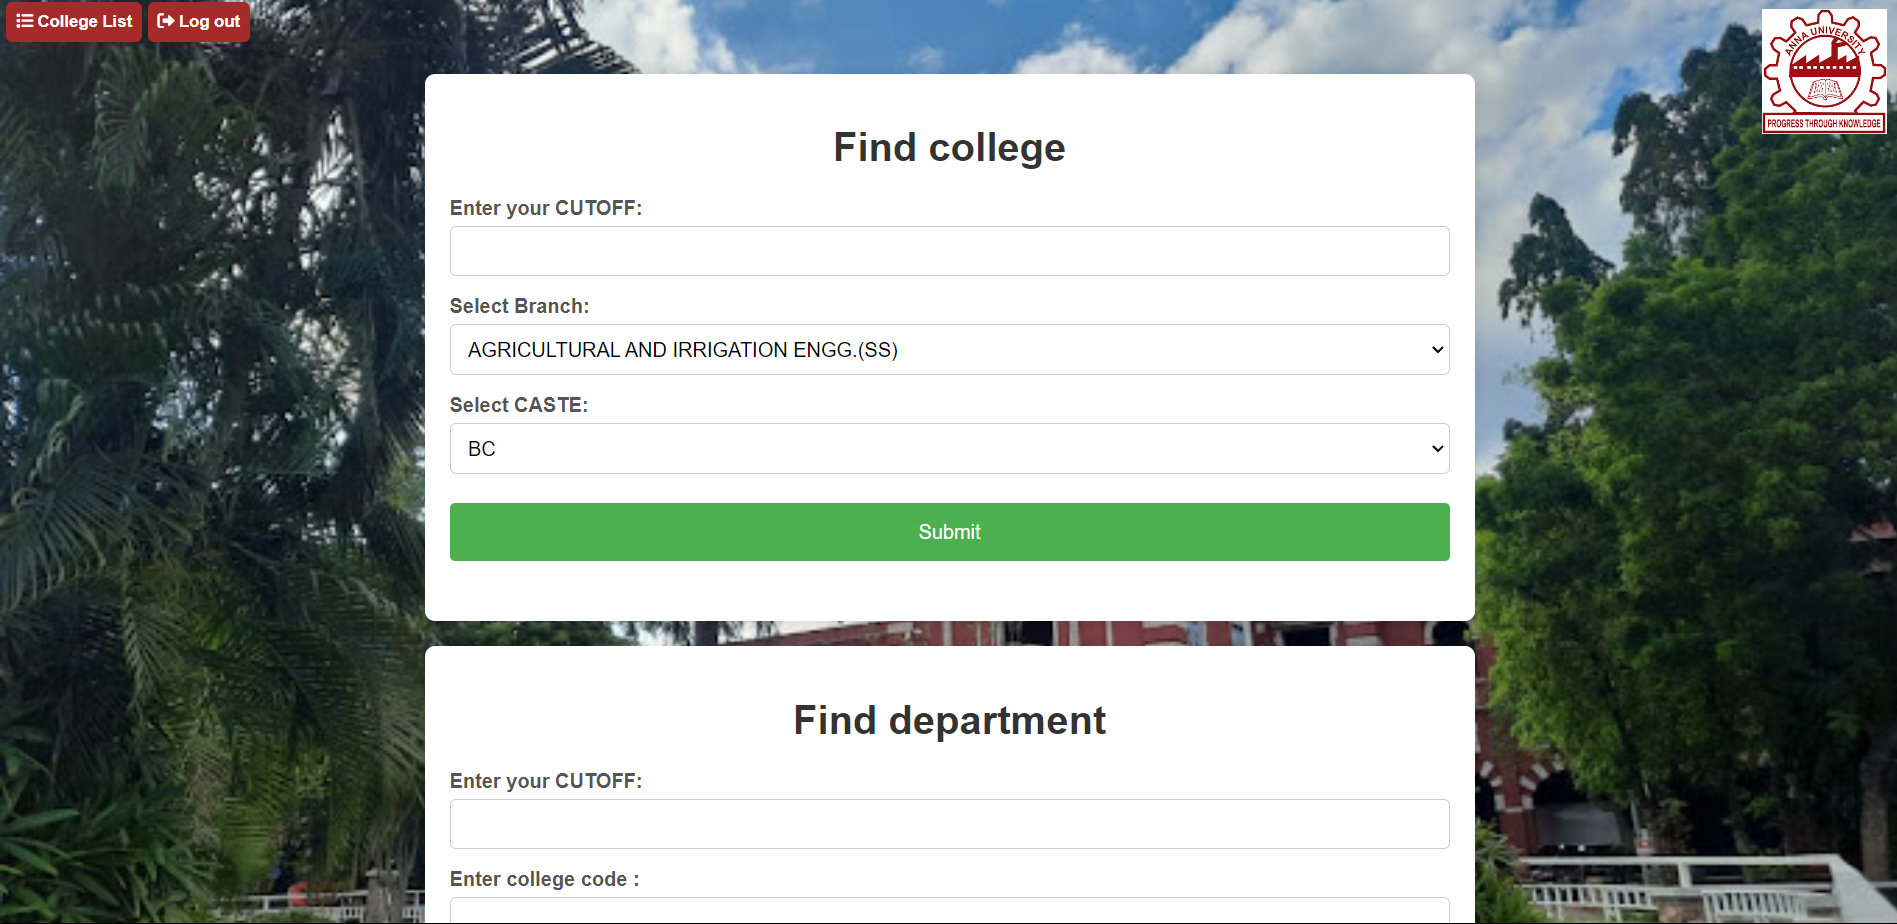
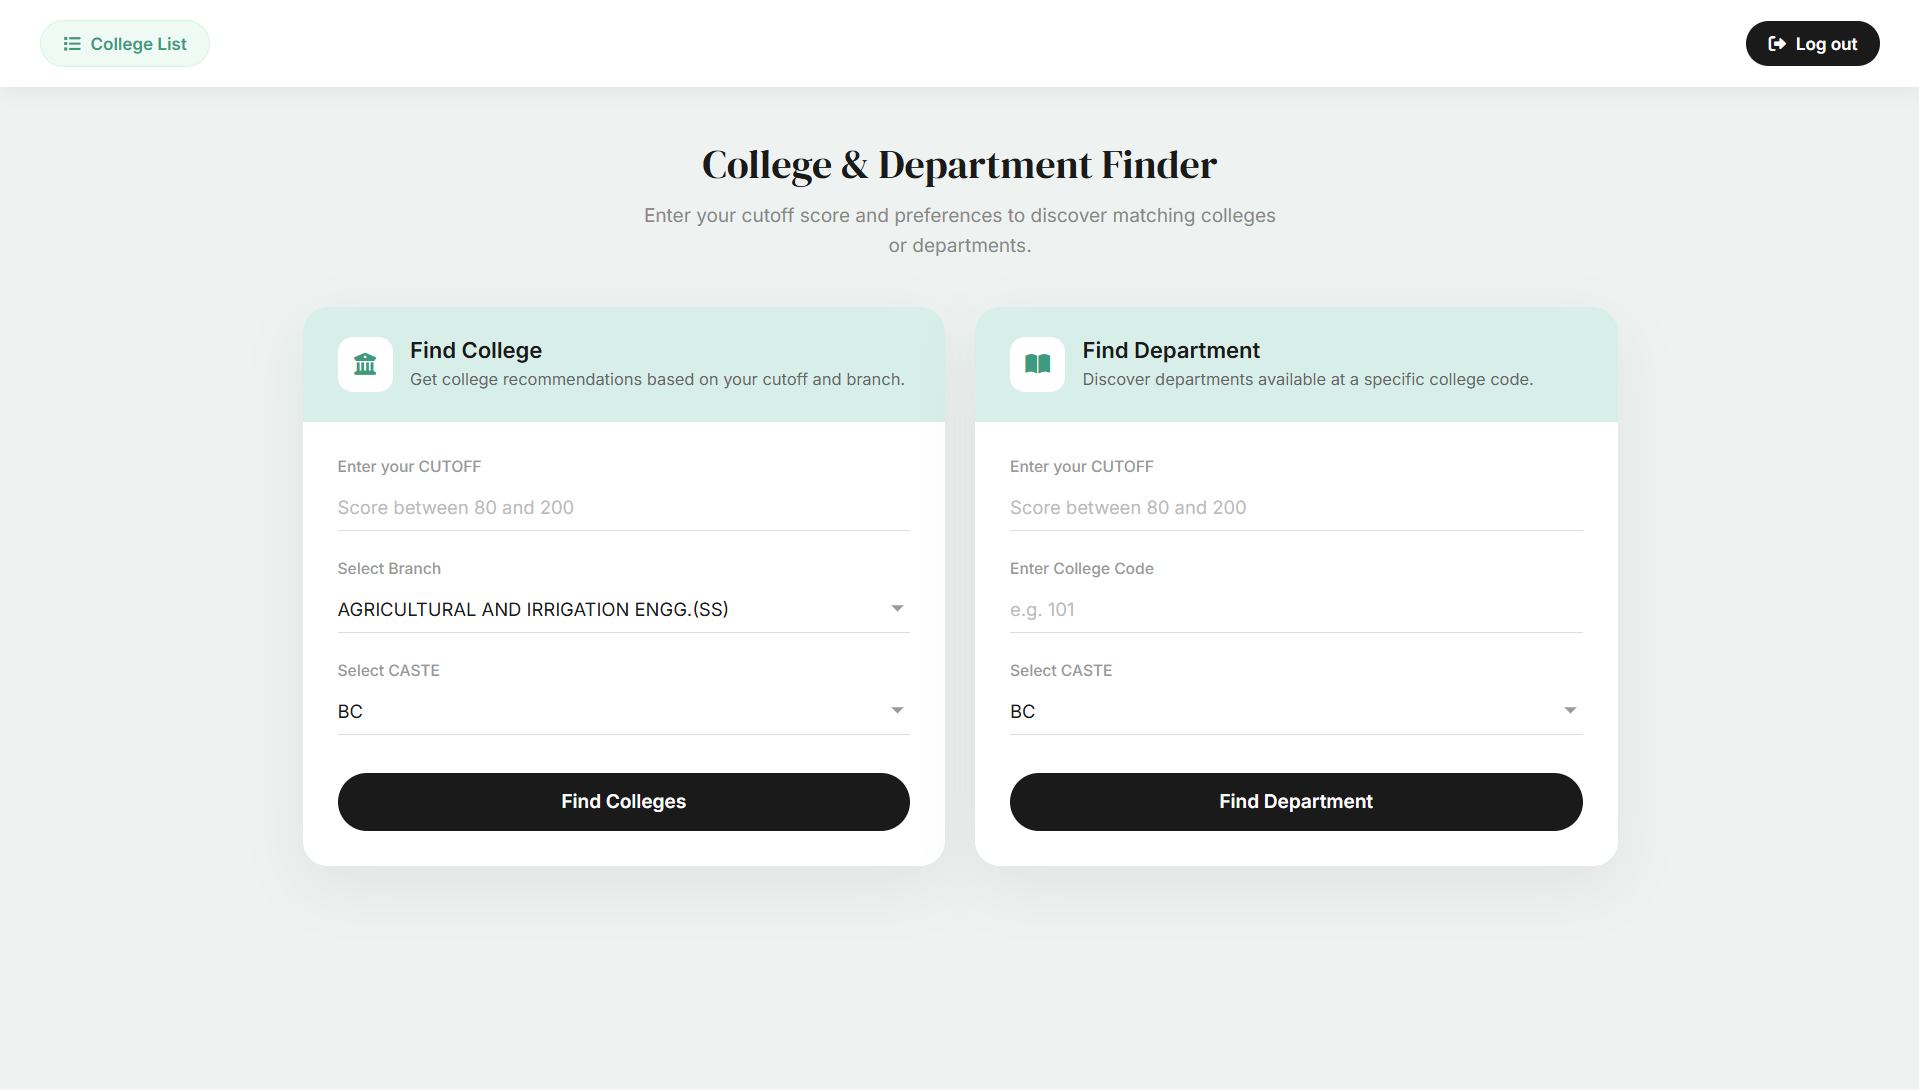
College-recommendation-system

diff --git a/README.md b/README.md
@@ -17,6 +17,11 @@ The integration of Python for the backend ensures robust and efficient data hand
 <p align="justify"> 
 The college list feature is developed for displaying cutoff data under various categories, such as branch code and caste, offers significant advantages for students navigating the college admission process. This tool provides a comprehensive and organized view of cutoff marks for different colleges and branches, making it easier for students to compare their options based on their academic performance and preferences. By categorizing the data according to branch codes and caste, the system ensures that users can quickly find the most relevant information tailored to their specific needs, enhancing the efficiency and accuracy of their college selection process. The backend development using Python ensures that the data is handled efficiently, allowing for quick retrieval and display of information. This real-time feature is crucial for students who need up-to-date information to make informed decisions. The frontend, created using HTML, offers a clean and user-friendly interface that simplifies interaction. The intuitive layout, with clearly labeled fields and buttons, guides users through the process of finding suitable colleges based on their cutoff marks, branch preferences, and caste category. </p>
 
-![Loginpage](./imgs/clglist.png)
+![Loginpage](./imgs/CollegeList.png)
+
+<p align="justify">
+The recommendation results are generated based on the student's cutoff marks and caste category, ensuring personalized and accurate admission guidance. Students can search by selecting a specific college to view the departments for which they are likely eligible based on their cutoff score. Alternatively, they can choose a preferred department to explore colleges where they have admission opportunities. This flexible approach helps students evaluate multiple admission pathways, compare available options, and make informed decisions about their higher education journey. By providing data-driven recommendations tailored to individual academic profiles, the system simplifies the college selection process and improves the overall admission planning experience.
+</p>
+![Loginpage](./imgs/Result.png)
 
 > Learn how to do this project: [Project](https://nirmalkumarofllll.github.io/Portfolio/CRS.html)
